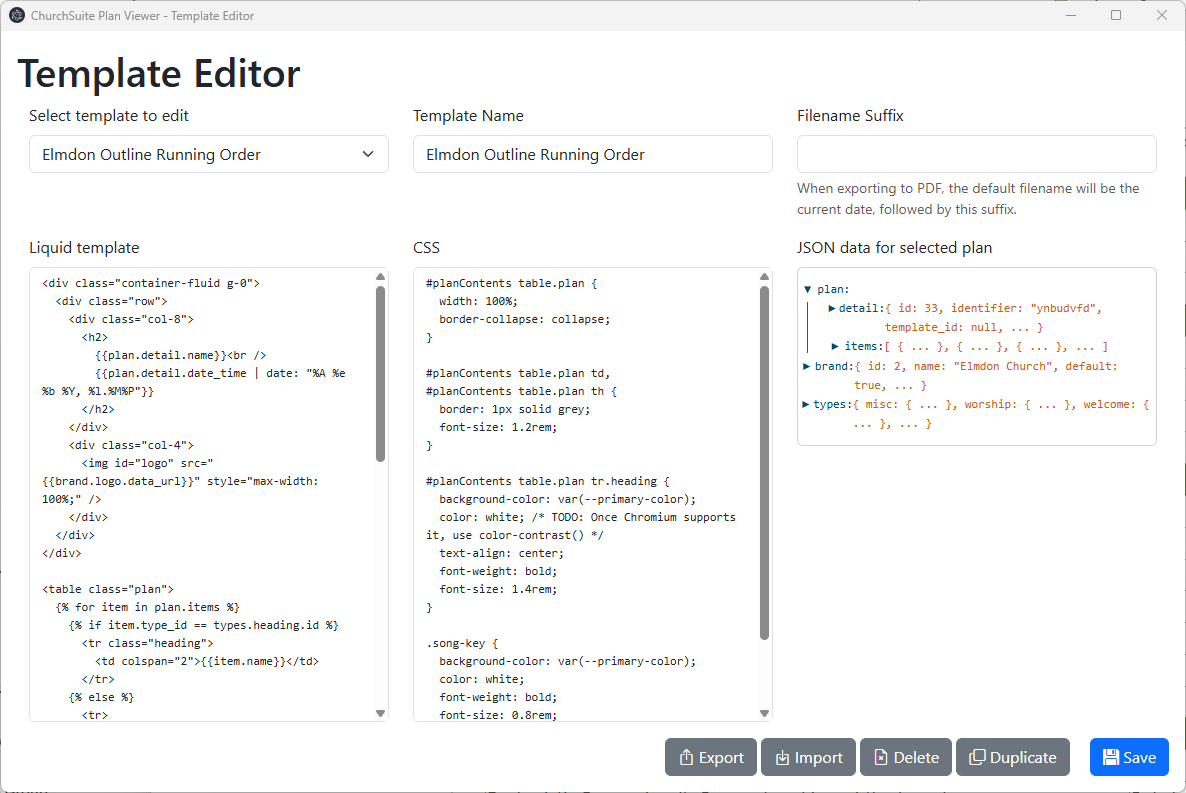
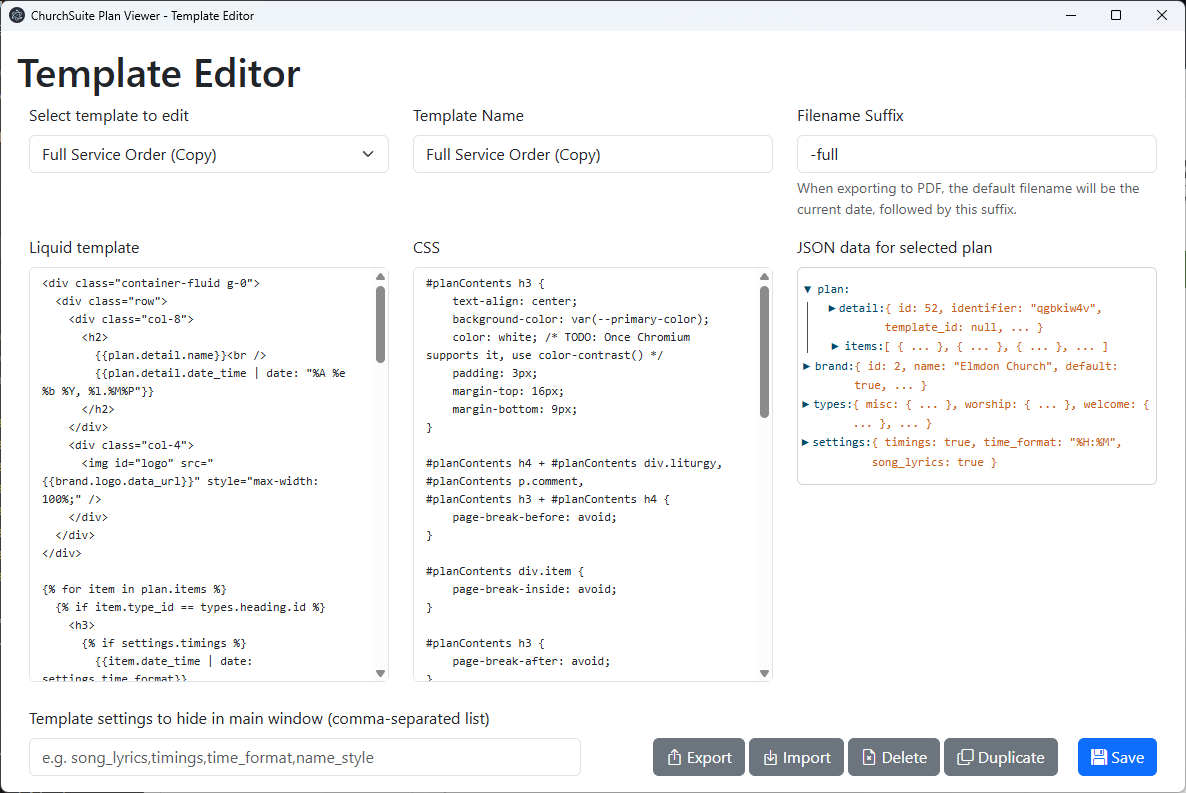
Update editor docs for new ability for template to hide settings

diff --git a/docs/editor.md b/docs/editor.md
@@ -21,7 +21,9 @@ The template editor window is divided into three sections:
   when the program suggests a name for the exported PDF file - for example, the "Full Service Order" template
   uses a suffix of "-full", so suggesting filenames like `02-11-2025-1100-full.pdf`.
 * In the middle, you control how the template displays your service plan - see below.
-* At the bottom are controls to save the current template and to duplicate, export, import and delete templates.
+* Bottom left is a field which allows you to hide certain template settings which do not make sense with
+  a particular template.
+* And at the bottom right are controls to save the current template and to duplicate, export, import and delete templates.
 
 *The default templates are not editable.* So, to get started, pick a template you want to start customising, and
 click **Duplicate**.
